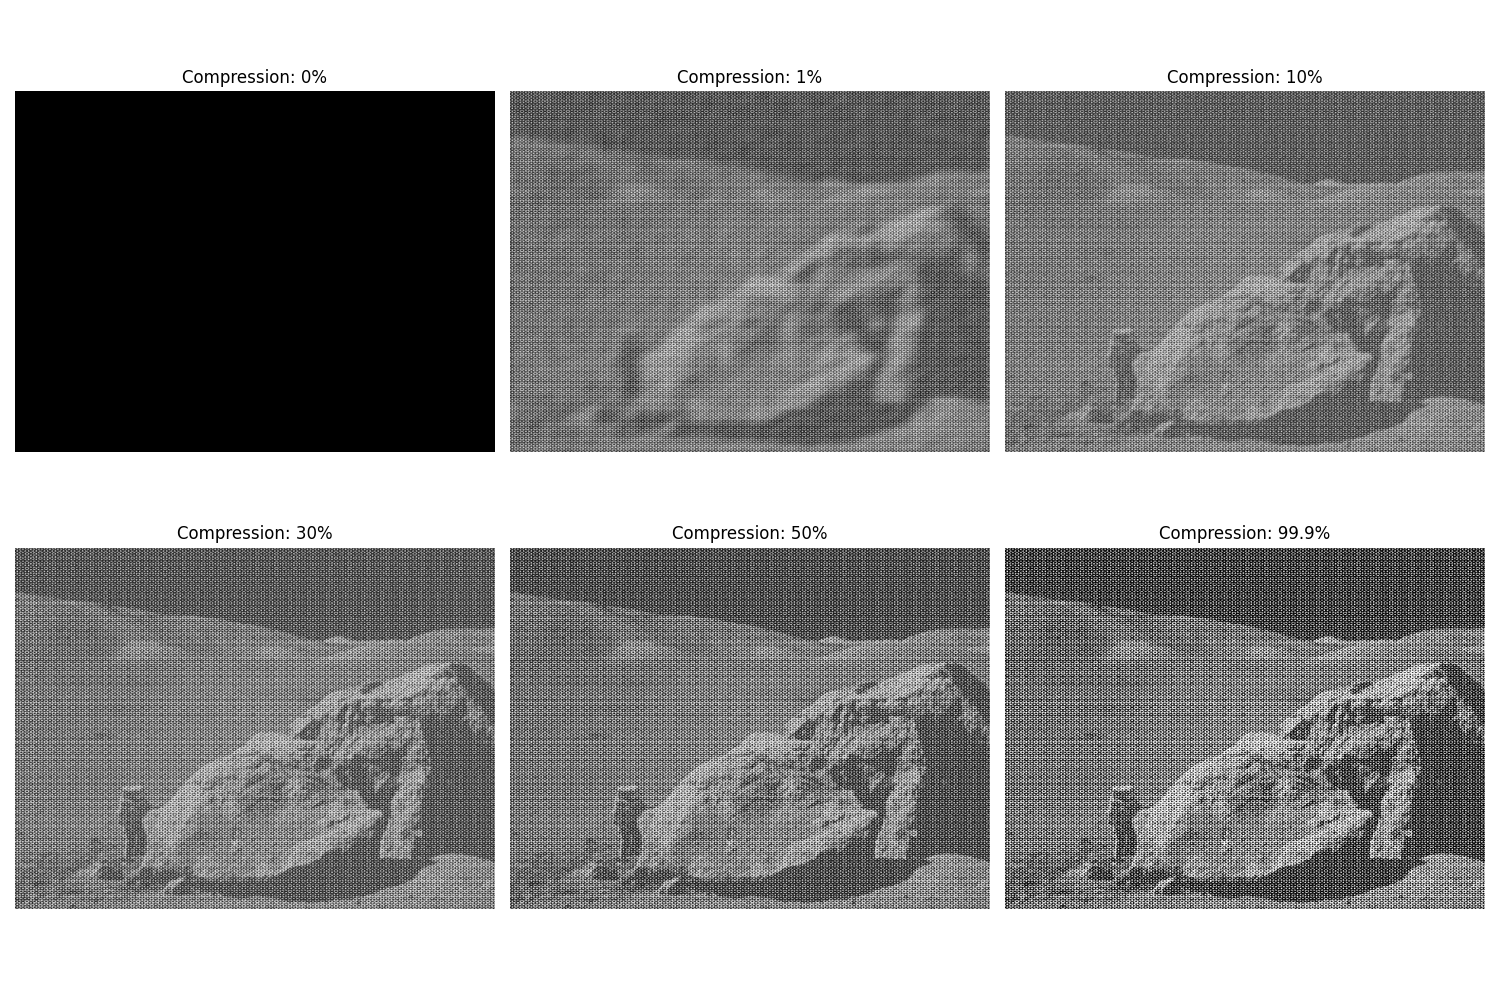
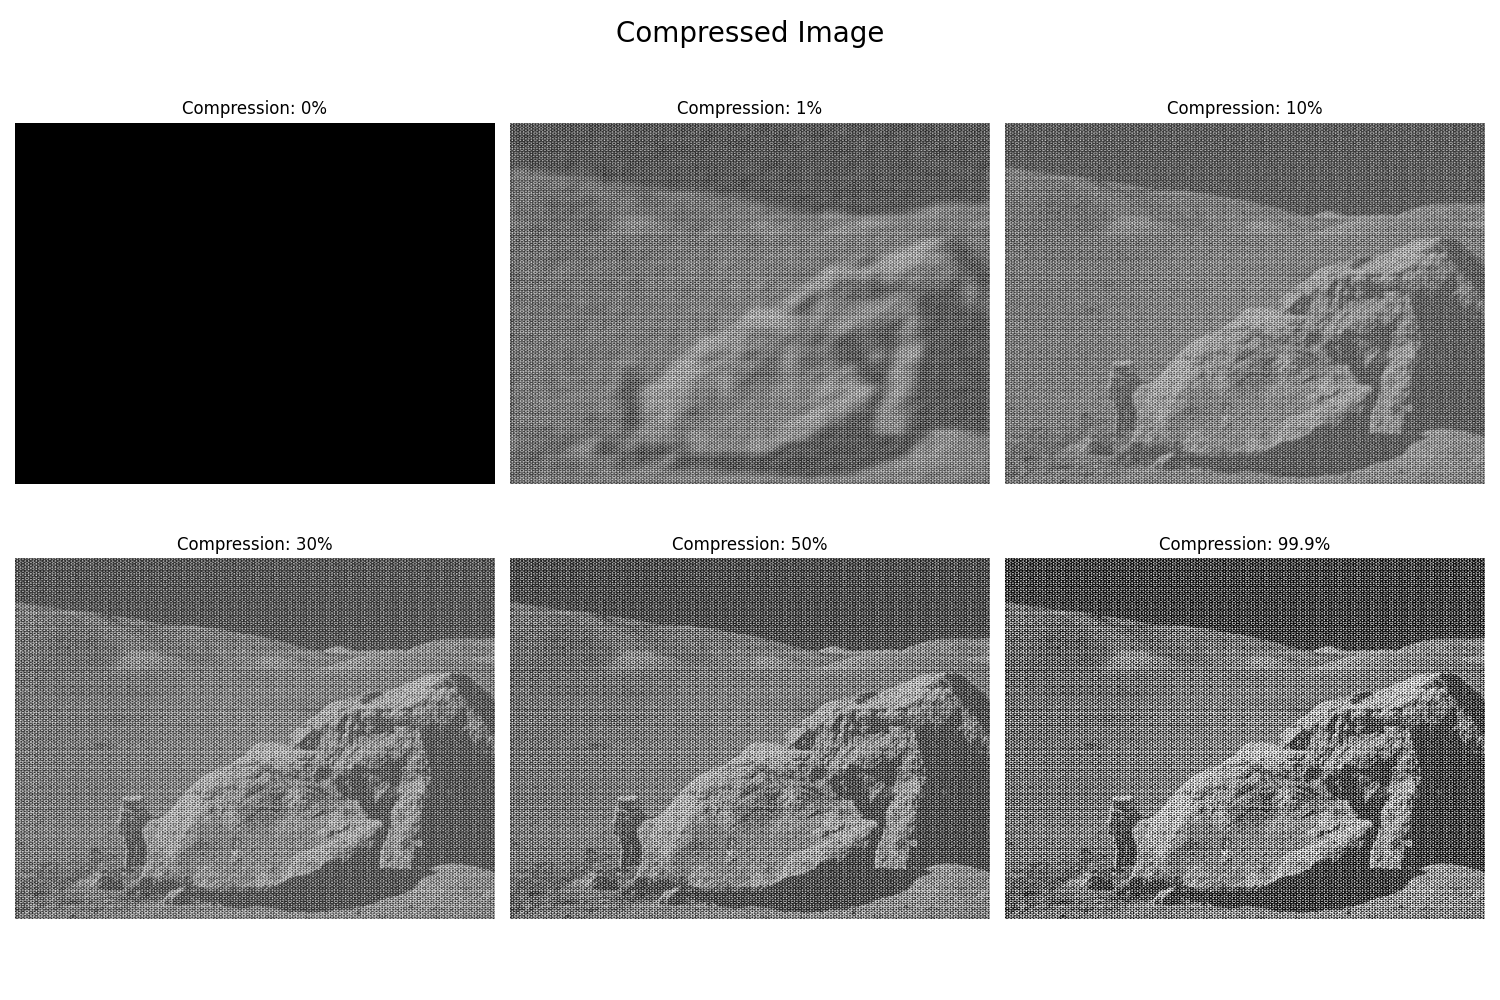
Fixed imports and comments

diff --git a/src/CompressMode.py b/src/CompressMode.py
@@ -1,6 +1,5 @@
 import numpy as np
 import matplotlib.pyplot as plt
-import DiscreteFourierTransform2D as dft2d  # This is temporary, will be replaced with the FFT
 import os
 from typing import Tuple
 
@@ -15,7 +14,7 @@ class CompressMode:
         self.folder_path = folder_path
         self.fft_image = self.run_FFT()
 
-        self.plot_images()
+        self.run_compression()
         pass
 
     def run_FFT(self) -> np.ndarray:
@@ -64,13 +63,13 @@ class CompressMode:
 
     def plot_images(self) -> None:
         """Plot the original image and its compressed images at different levels."""
-        fft_image = self.run_FFT()
         compression_levels = [0, 1, 10, 30, 50, 99.9]
         plt.figure(figsize=(15, 10))
+        plt.suptitle("Compressed Image", fontsize=20)
 
         for i, level in enumerate(compression_levels):
             compressed_image, number_non_zeros = self.compress_and_inverse_fft(
-                fft_image, level
+                self.fft_image, level
             )
             print(f"Compression Level: {level}%, Non-Zero Coefficients: {number_non_zeros}")
 
@@ -86,4 +85,7 @@ class CompressMode:
 
         plt.savefig(os.path.join(self.folder_path, "Compressed_Images.png"))
 
-        plt.show()
+    
+    def run_compression(self) -> None:
+        self.run_FFT()
+        self.plot_images()

diff --git a/src/FastMode.py b/src/FastMode.py
@@ -1,7 +1,6 @@
 from matplotlib.colors import LogNorm
 import numpy as np
 import matplotlib.pyplot as plt
-import DiscreteFourierTransform2D as dft2d  # TODO: This is temporary, will be replaced with the FFT
 import os
 
 
@@ -19,7 +18,7 @@ class FastMode:
         self.plot_images()
 
     def run_FFT(self) -> np.ndarray:
-        # TODO: This is temporary, will be replaced with our implementation of the FFT
+        # FIXME: This is temporary, will be replaced with our implementation of the FFT
         return np.fft.fft2(self.original_image)
 
     def plot_images(self) -> None:

diff --git a/src/DenoiseMode.py b/src/DenoiseMode.py
@@ -23,6 +23,7 @@ class DenoiseMode:
         # Apply a simple denoising technique (e.g., thresholding)
         # TODO: What is considered a high frequency?
         threshold = np.mean(transformed_signal) + 2 * np.std(transformed_signal)
+        
         denoised_signal = np.where(
             transformed_signal > threshold, transformed_signal, 0
         )

diff --git a/src/PlottingMode.py b/src/PlottingMode.py
@@ -64,6 +64,8 @@ class PlottingMode:
         self,
         sizes: np.array,
     ) -> None:
+        
+        plt.suptitle("Runtime of FFT", fontsize=20)
         # Define error bar colors and transparency
         errorbar_alpha = 0.3
         fft_color = "blue"
